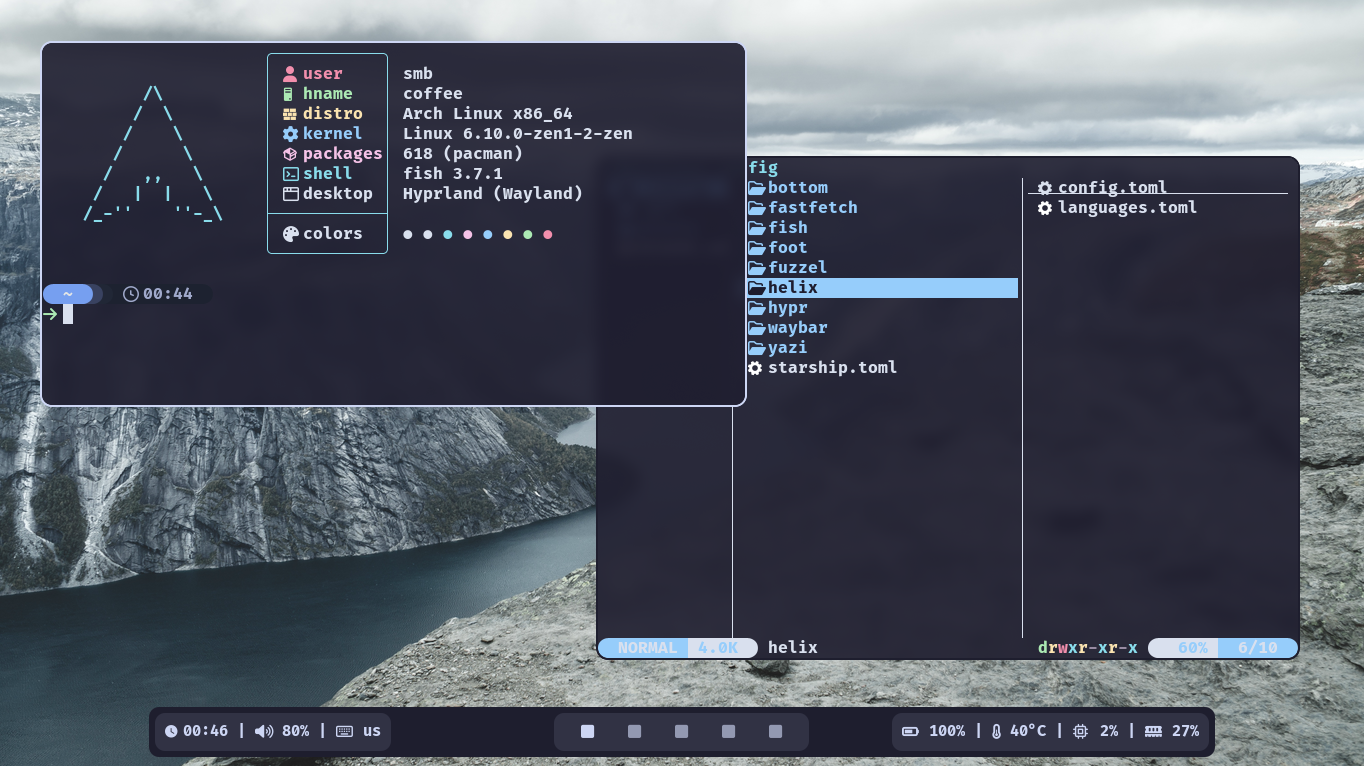
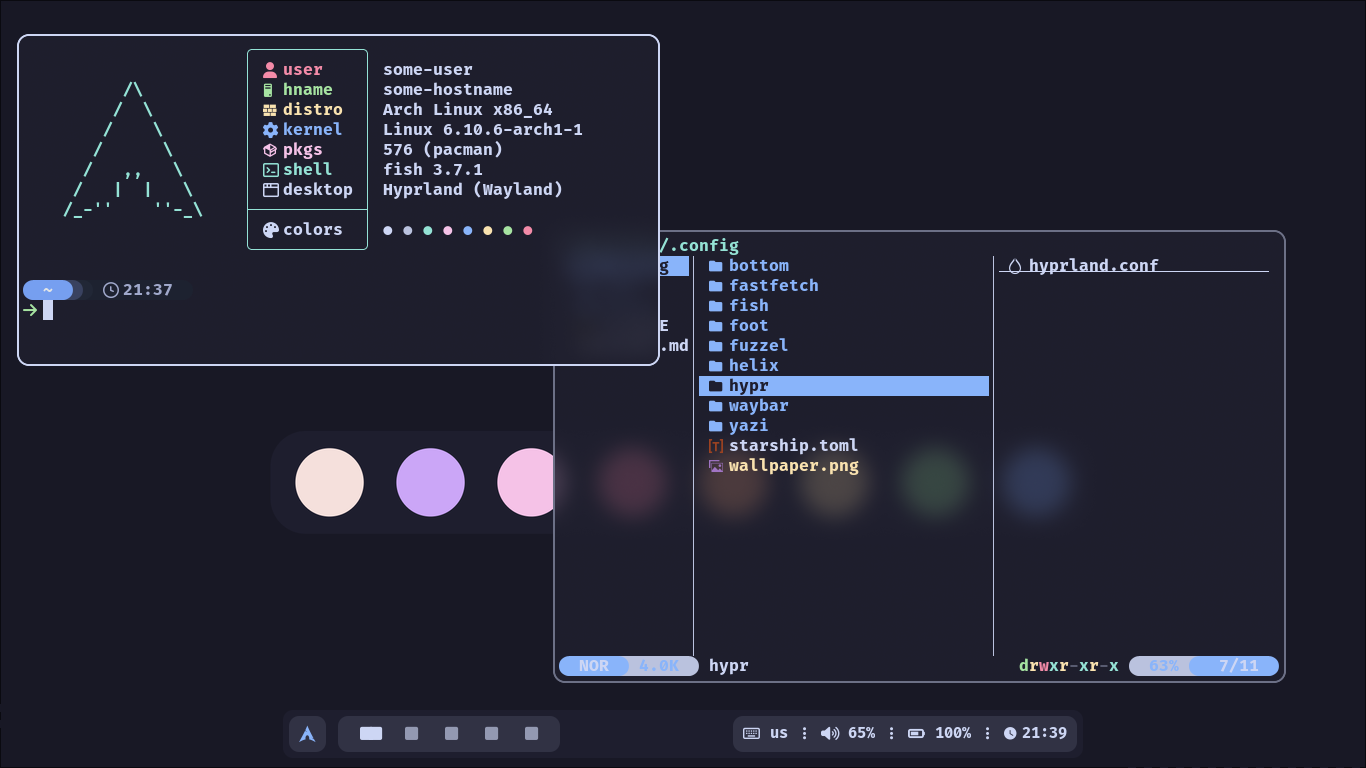
added custom wallpapers

diff --git a/README.md b/README.md
@@ -32,11 +32,11 @@
 
   Installing software
   ```sh
-  sudo pacman -Sy hyprland waybar fuzzel swww cliphist grim slurp ly \
+  sudo pacman -Sy --needed hyprland waybar fuzzel swww cliphist grim slurp ly \
   foot fish starship yazi helix bottom fastfetch less eza fzf \
-  ttf-firacode-nerd archlinux-wallpaper
+  ttf-firacode-nerd
 
-  sudo yay -Sy catppuccin-gtk-theme-mocha bibata-cursor-theme
+  sudo yay -Sy --needed catppuccin-gtk-theme-mocha bibata-cursor-theme
   ```
   Copying config files
   ```sh
